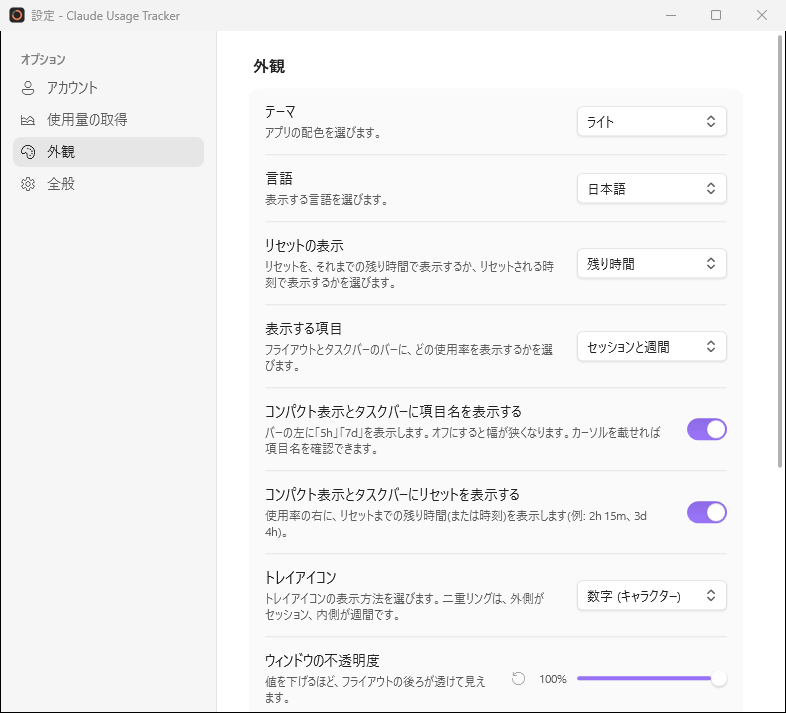
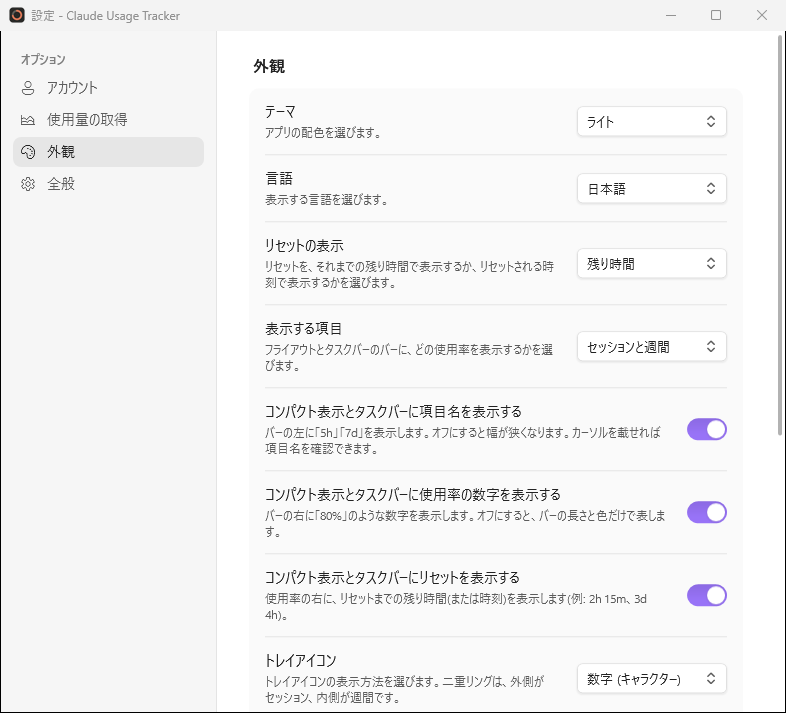
コミット

diff --git a/src/ClaudeUsageTracker.App/Views/SettingsWindow.xaml b/src/ClaudeUsageTracker.App/Views/SettingsWindow.xaml
@@ -403,6 +403,9 @@
                         <CheckBox Style="{StaticResource ToggleRowStyle}" IsChecked="{Binding CompactShowLabels}"
                                   views:SettingRow.Title="{loc:Tr Settings_CompactLabels}" views:SettingRow.Description="{loc:Tr Settings_CompactLabelsDescription}" />
                         <Border Style="{StaticResource CardDividerStyle}" />
+                        <CheckBox Style="{StaticResource ToggleRowStyle}" IsChecked="{Binding CompactShowPercentage}"
+                                  views:SettingRow.Title="{loc:Tr Settings_CompactPercentage}" views:SettingRow.Description="{loc:Tr Settings_CompactPercentageDescription}" />
+                        <Border Style="{StaticResource CardDividerStyle}" />
                         <CheckBox Style="{StaticResource ToggleRowStyle}" IsChecked="{Binding CompactShowResetTime}"
                                   views:SettingRow.Title="{loc:Tr Settings_CompactResetTime}" views:SettingRow.Description="{loc:Tr Settings_CompactResetTimeDescription}" />
                         <Border Style="{StaticResource CardDividerStyle}" />

diff --git a/src/ClaudeUsageTracker.App/ViewModels/SettingsViewModel.cs b/src/ClaudeUsageTracker.App/ViewModels/SettingsViewModel.cs
@@ -73,6 +73,7 @@ public partial class SettingsViewModel : ObservableObject
         ShowTaskbarBarOverFullScreen = settings.ShowTaskbarBarOverFullScreen;
         VisibleRows = settings.VisibleRows;
         CompactShowLabels = settings.CompactShowLabels;
+        CompactShowPercentage = settings.CompactShowPercentage;
         CompactShowResetTime = settings.CompactShowResetTime;
         TaskbarBarShowMascot = settings.TaskbarBarShowMascot;
         FlyoutShowMascot = settings.FlyoutShowMascot;
@@ -240,6 +241,9 @@ public partial class SettingsViewModel : ObservableObject
 
     [ObservableProperty]
     private bool _compactShowLabels;
+
+    [ObservableProperty]
+    private bool _compactShowPercentage;
 
     [ObservableProperty]
     private bool _compactShowResetTime;
@@ -433,6 +437,8 @@ public partial class SettingsViewModel : ObservableObject
 
     partial void OnCompactShowLabelsChanged(bool value) => Apply();
 
+    partial void OnCompactShowPercentageChanged(bool value) => Apply();
+
     partial void OnCompactShowResetTimeChanged(bool value) => Apply();
 
     partial void OnTaskbarBarShowMascotChanged(bool value) => Apply();
@@ -516,6 +522,7 @@ public partial class SettingsViewModel : ObservableObject
         settings.ShowTaskbarBarOverFullScreen = ShowTaskbarBarOverFullScreen;
         settings.VisibleRows = VisibleRows;
         settings.CompactShowLabels = CompactShowLabels;
+        settings.CompactShowPercentage = CompactShowPercentage;
         settings.CompactShowResetTime = CompactShowResetTime;
         settings.TaskbarBarShowMascot = TaskbarBarShowMascot;
         settings.FlyoutShowMascot = FlyoutShowMascot;

diff --git a/src/ClaudeUsageTracker.App/App.xaml.cs b/src/ClaudeUsageTracker.App/App.xaml.cs
@@ -181,6 +181,7 @@ public partial class App : System.Windows.Application
         _flyoutViewModel.ShowResetClockTime = settings.ResetTimeDisplay == ResetTimeDisplay.Clock;
         _flyoutViewModel.VisibleRows = settings.VisibleRows;
         _flyoutViewModel.CompactShowLabels = settings.CompactShowLabels;
+        _flyoutViewModel.CompactShowPercentage = settings.CompactShowPercentage;
         _flyoutViewModel.CompactShowResetTime = settings.CompactShowResetTime;
         _flyoutViewModel.ShowMascot = settings.FlyoutShowMascot;
         _flyoutViewModel.MascotAnimation = settings.MascotAnimation;

diff --git a/src/ClaudeUsageTracker.App/ViewModels/FlyoutViewModel.cs b/src/ClaudeUsageTracker.App/ViewModels/FlyoutViewModel.cs
@@ -63,6 +63,10 @@ public partial class FlyoutViewModel : ObservableObject
     [ObservableProperty]
     private bool _compactShowLabels = true;
 
+    /// <summary>Whether the compact views show each row's percentage as a number (a setting).</summary>
+    [ObservableProperty]
+    private bool _compactShowPercentage = true;
+
     /// <summary>Whether the compact views show when each row resets (a setting).</summary>
     [ObservableProperty]
     private bool _compactShowResetTime = true;

diff --git a/src/ClaudeUsageTracker.App/Settings/AppSettings.cs b/src/ClaudeUsageTracker.App/Settings/AppSettings.cs
@@ -99,6 +99,9 @@ public sealed class AppSettings
     /// </summary>
     public bool CompactShowLabels { get; set; } = true;
 
+    /// <summary>Shows each row's percentage as a number, right of its bar, in the compact views. Off leaves the bar to say it.</summary>
+    public bool CompactShowPercentage { get; set; } = true;
+
     /// <summary>Shows when each row resets, right of its percentage, in the compact views.</summary>
     public bool CompactShowResetTime { get; set; } = true;
 
